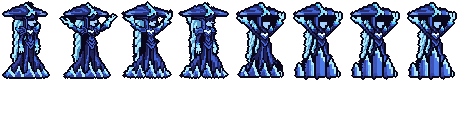
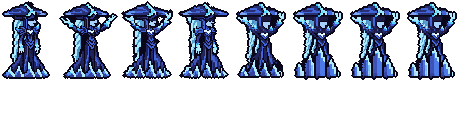
丽桑卓死亡第 4-7 帧：冠下那片黑洞换成她自己的颜色，浅色头发画回来（用户：「感觉你说的丽桑卓那几个问题还是得修」，之前说的「丽桑卓也有莫名其妙阴影的部分」）
- Codex 的死亡第 5、6 张（游戏里死亡第 4 帧，和第 5-7 帧沿用的那张）冠下面、举起的两臂中间是一整片近黑色，脸像浮在黑洞里，原来左边的浅色头发也没了。
- casts_lissandra_hd.py 的 paint_void（DEAD_PAINT）：这一块里的黑格，除了贴着外面、两臂和脸的那一圈轮廓，都换成她设计图里的颜色——冠沿下第一行用兜帽的阴影色（只比兜帽深一档），其余是兜帽的深蓝；柱子左边的头发照死亡第 3 帧（dead_3，同样双手举到冠沿）同一位置的头发画回来；脸右边的面罩用阴影色。不缩放，逐格按设计调色板填。
- 只改了死亡第 4-7 帧（hd_ / lo_ / 1 倍），帧大小没变，.fanim 和上一个提交一样。CI 的 53 项 python 检查、hero_reels --check 都过。

diff --git a/tools/art/casts_lissandra_hd.py b/tools/art/casts_lissandra_hd.py
@@ -7,7 +7,8 @@ at her design (the user, 2026-11-03: 「继续加四个 魔腾 凯南 剑魔 丽
 hd/casts holds Codex's 25 sheets (each its chosen raw generation byte for byte, redos included), drawn on a
 near-white ground: casts_rengar_hd.figure keys it off. Each frame's zoom (FRAME_ZOOM, --fit) reads her STAND rows tall,
 the top of her crown to her hem as the design, and of the zooms that do, the one nearest to what her CROWN gives (see
-FRAME_ZOOM), so her body and her crown are the design's size in every frame; HEAD_FROM gives two frames another's head.
+FRAME_ZOOM), so her body and her crown are the design's size in every frame; HEAD_FROM gives two frames another's head;
+DEAD_PAINT lays her own shades over the black hole Codex left under the crown in the death's 5-8.
 The old frame's body (its box places the new frame) leaves out what the old sheet baked in, the ice shards and frost by
 her hands: only what lies within two pixels of the dark outline counts (OLD_BODY). Each frame is then placed where the
 old body stood: its box's middle on the old box's middle and its bottom on the old box's bottom, from the pivot, on the
@@ -73,6 +74,19 @@ CROWN_ROWS = 14                 # design rows 0-13: the crown down to the brim's
 # head_from's boxes under the brim (design rows and columns, from the fitted crown): the visor, the face and its dark
 # right side; the hair on her left and the hand by her chin stay the frame's own
 HEAD_BOXES = ((14, 22, 21, 38), (22, 26, 21, 33))
+# her design's dark shades (paint_void): the outline's two near-blacks, the hood's navy and the shade one darker
+OUTLINE_COLS = ((11, 7, 26), (12, 9, 30))
+HOOD_COL = (27, 25, 66)
+SHADE_COL = (17, 14, 43)
+# the death's 5-8 (Codex's dead_5, and dead_6 that 6-8 hold) had a black hole under the crown between her raised arms,
+# the face floating in it and her pale hair gone (the user, 2026-11-17: 「感觉你说的丽桑卓那几个问题还是得修」).
+# paint_void lays her own shades there, the way the design and her death 3 (dead_3, the same arms raised to the brim)
+# draw the place: the row under the brim's outline the hood's shade, the rest the hood's navy, the hair back from
+# dead_3 left of the pillar, the visor right of the face the shade; the outline round the arms, the face and the
+# ground stays. Boxes in design rows and columns from each frame's fitted crown: (rows, cols)
+DEAD_PAINT = {"src": "dead_3", "zone": (14, 31, 11, 40), "hair": (15, 29, 11, 22), "visor": (18, 27, 34, 37),
+              "shade_row": 14, "face": (19, 28, 26, 35), "arms": ((13, 31, 0, 12), (9, 31, 38, 50))}
+DEAD_PAINTED = ("dead_5", "dead_6")      # (the drawings; dead_7 / dead_8 hold dead_6)
 
 # casts_rengar_hd's reading on her design
 CS.D0, CS.HEAD = D0, HEAD
@@ -293,6 +307,8 @@ def placed():
         out[n] = thrown(n, *out[n])
     for n, src in HEAD_FROM.items():
         out[n] = head_from(*out[n], out[src][0])
+    for n in [n for n in out if HELD.get(n, n) in DEAD_PAINTED]:
+        out[n] = (paint_void(out[n][0], out[DEAD_PAINT["src"]][0]), out[n][1], out[n][2])
     for n, (pic, x, y) in out.items():
         out[n] = (body_only(pic), x, y)
     return out
@@ -342,6 +358,53 @@ def head_from(pic, x, y, src, pad=4):
                     out[r + oy, c + ox] = src[r, c]
     ys, xs = np.nonzero(out[..., 3] > 0)
     return out[ys.min():ys.max() + 1, xs.min():xs.max() + 1], x - pad + int(xs.min()), y - pad + int(ys.min())
+
+
+FACE_COLS = ((167, 207, 251), (130, 165, 241), (176, 214, 250))       # her face's pale blues in the design
+
+
+def _cols(pic, cols, tol=0):
+    rgb = pic[..., :3].astype(int)
+    m = np.zeros(pic.shape[:2], bool)
+    for c in cols:
+        m |= np.abs(rgb - c).sum(-1) <= tol
+    return m & (pic[..., 3] > 0)
+
+
+def _box(shape, b, oy, ox):
+    m = np.zeros(shape[:2], bool)
+    m[max(0, b[0] + oy):max(0, b[1] + oy), max(0, b[2] + ox):max(0, b[3] + ox)] = True
+    return m
+
+
+def paint_void(pic, src, spec=DEAD_PAINT):
+    """The black under her crown in her own shades (DEAD_PAINT): every outline square in the zone but the outline of
+    the ground, of the arms and of the face -> the shade in the shade row, src's hair in the hair box (src's light
+    squares, not its face; else the hood), the shade in the visor box, else the hood's navy. src lies on the same
+    crown (crown_fit on both)."""
+    fy, fx = crown_fit(pic)
+    sy, sx = crown_fit(src)
+    op = pic[..., 3] > 0
+    light = op & (pic[..., :3].astype(int).sum(-1) >= 300)
+    face = _cols(pic, FACE_COLS, 11) & _box(pic.shape, spec["face"], fy, fx)
+    arms = np.zeros(op.shape, bool)
+    for b in spec["arms"]:
+        arms |= _box(pic.shape, b, fy, fx)
+    four = np.array([[0, 1, 0], [1, 0, 1], [0, 1, 0]], bool)
+    near = ndimage.binary_dilation(~op | (light & arms) | face, structure=four)
+    void = _cols(pic, OUTLINE_COLS) & _box(pic.shape, spec["zone"], fy, fx) & ~near
+    src_light = (src[..., 3] > 0) & (src[..., :3].astype(int).sum(-1) >= 300) & ~_cols(src, FACE_COLS, 11)
+    hair, visor = _box(pic.shape, spec["hair"], fy, fx), _box(pic.shape, spec["visor"], fy, fx)
+    out = pic.copy()
+    for y, x in zip(*np.nonzero(void)):
+        Y, X = y - fy + sy, x - fx + sx
+        if y == spec["shade_row"] + fy:
+            out[y, x, :3] = SHADE_COL
+        elif hair[y, x] and 0 <= Y < src.shape[0] and 0 <= X < src.shape[1] and src_light[Y, X]:
+            out[y, x] = src[Y, X]
+        else:
+            out[y, x, :3] = SHADE_COL if visor[y, x] else HOOD_COL
+    return out
 
 
 def body_only(pic, keep_ahead=False):
